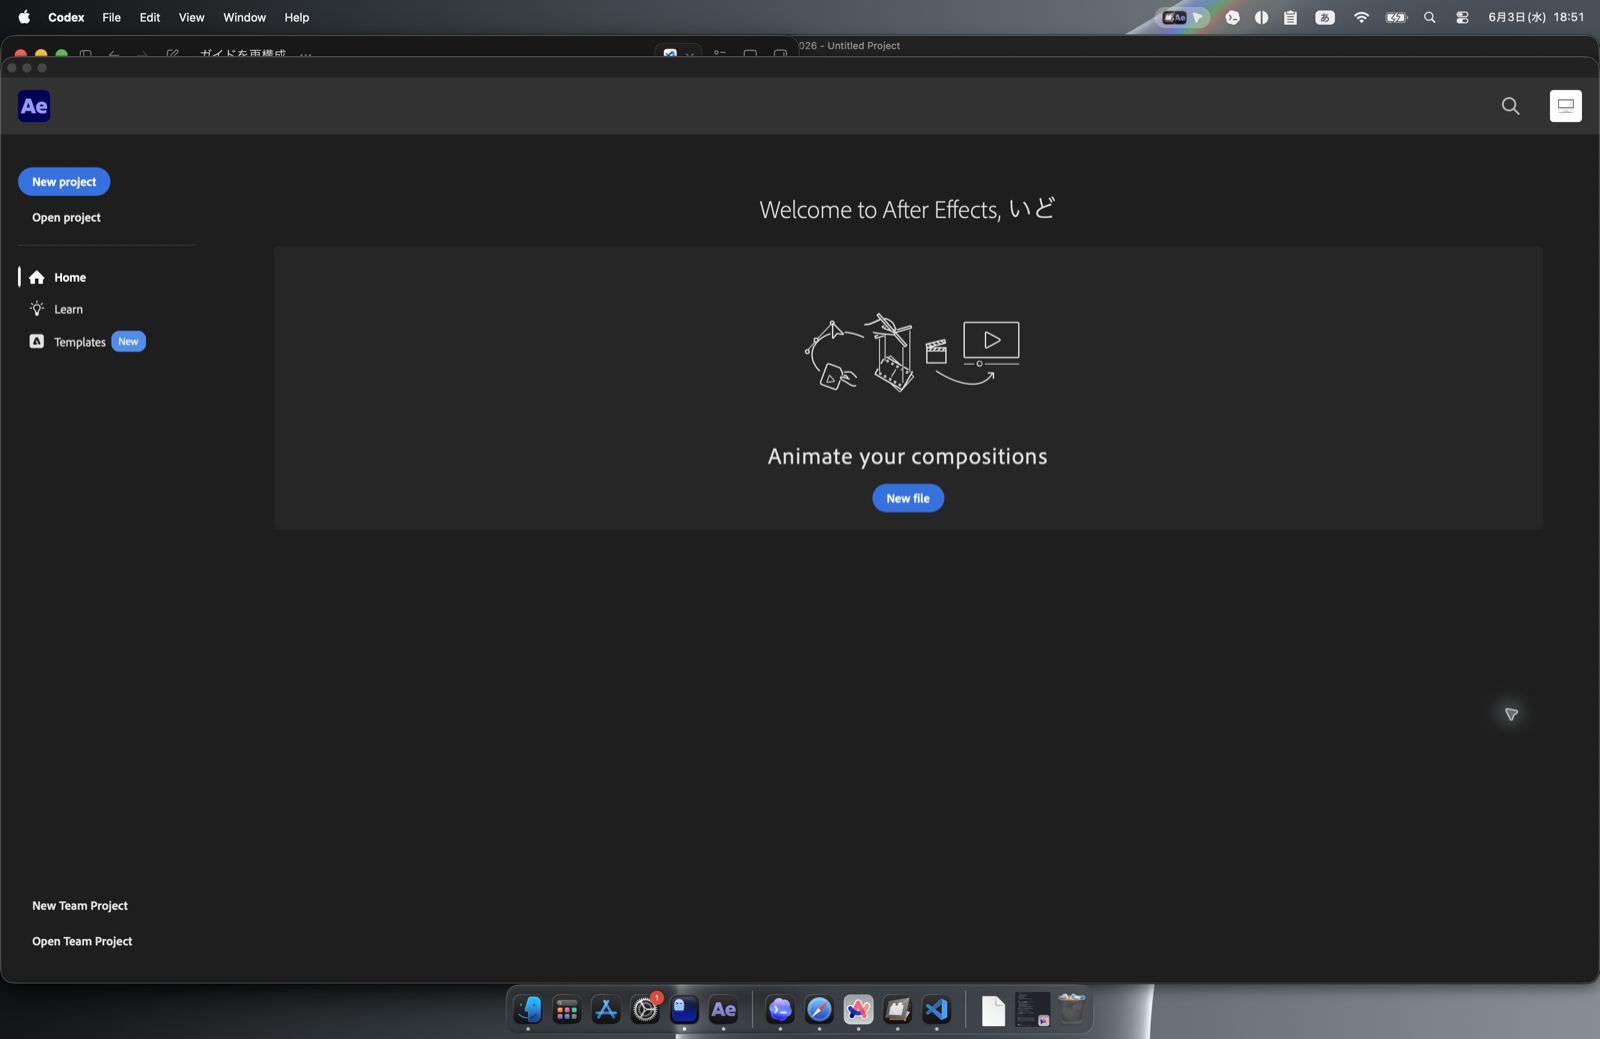
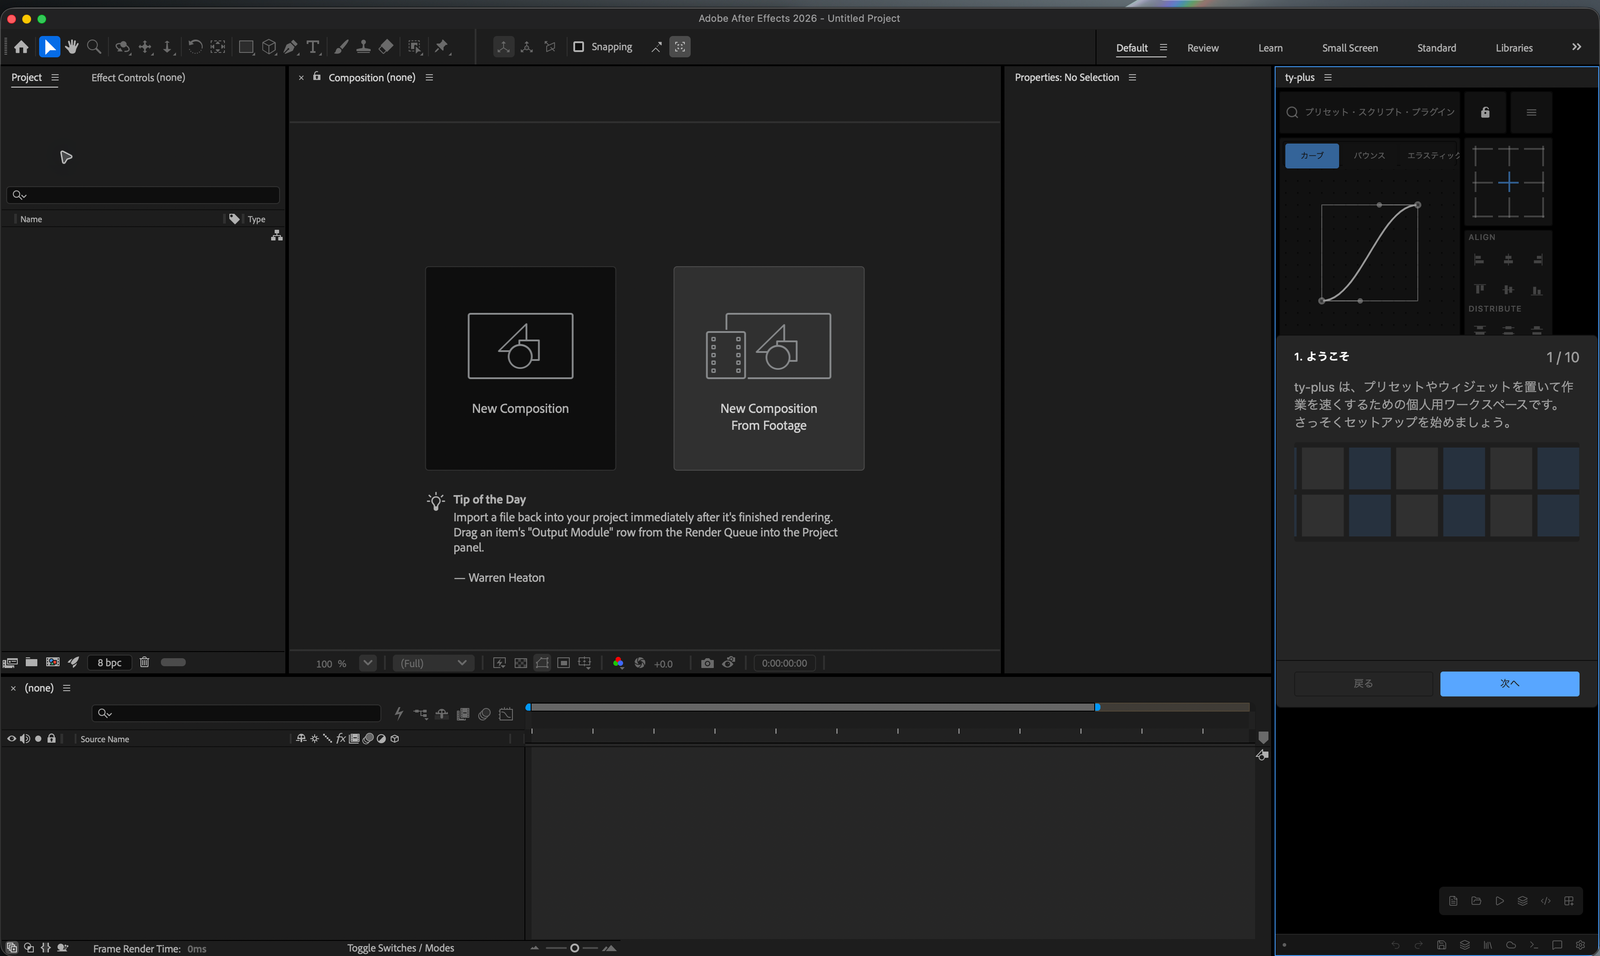
fix(web): hide closed nav popover and replace contaminated imagery (#282)
- .site-menu author display:flex overrode the UA rule hiding closed
  popovers, painting the menu over page content on every route.
  Add an explicit :not(:popover-open) display:none rule.
- SiteHeader measure(): an open popover lives in the top layer and never
  contributes to scrollWidth, so opening the menu flipped the layout to
  is-wide and removed the popover. Hide the popover for the measuring
  frame, then restore it.
- capture-screens.ts now fails the run when the collapsed menu is
  visible (computed display, geometry, hit test) or when the open menu
  fails to paint.
- Replace all product imagery with captures verified clean via OCR
  audit of docs/user-guide sources: previous assets contained Codex
  windows, terminal commands, /Users paths, browser/Notion chrome, and
  the empty AE welcome screen. Keep only hero (v0.10.1), the panel in a
  new project (main-02), preset tiles (v0.10.1-panel), the Add Widget
  dialog (widgets-01), and the Code Preset dialog (presets-10), cropped
  to remove macOS menu bar and Dock. Features without a verified
  capture (appearance) render as a text-only row instead of borrowing
  an unrelated screenshot.

Generated with [Devin](https://devin.ai)

diff --git a/apps/web/src/routes/features.tsx b/apps/web/src/routes/features.tsx
@@ -21,33 +21,36 @@ const FEATURES = [
 		index: "01",
 		title: "Workspace tiles & widgets",
 		body: "Arrange preset tiles, directory browsers, and utility widgets on a gridded workspace. Add, remove, and reorder widgets from the built-in picker, then save the layout locally — it is restored exactly as you left it.",
-		image: "/images/widget-added.png",
-		alt: "A widget added to the ty-plus workspace",
-		caption: "fig. 01 — a widget added to the workspace",
+		image: "/images/workspace.png",
+		alt: "The ty-plus panel docked inside a new After Effects project",
+		caption: "fig. 01 — the panel inside After Effects",
+		width: 1600,
+		height: 956,
 	},
 	{
 		index: "02",
 		title: "Preset library",
 		body: "Keep easing, text-style, footage, layer, animation, and code presets organized in groups. Apply them to the right After Effects target without leaving the panel or hunting through folders.",
-		image: "/images/easing-applied.png",
-		alt: "An easing preset applied to keyframes in a saved After Effects project",
-		caption: "fig. 02 — easing preset applied to keyframes",
+		image: "/images/preset-tiles.png",
+		alt: "Preset tiles in the ty-plus panel",
+		caption: "fig. 02 — preset tiles, ready to apply",
+		width: 640,
+		height: 1748,
 	},
 	{
 		index: "03",
-		title: "Customizable appearance",
-		body: "Tune colors, spacing, and panel styling from Settings. Appearance changes apply live and are stored on your machine — the panel looks the way you want it to.",
-		image: "/images/settings.png",
-		alt: "ty-plus settings dialog",
-		caption: "fig. 03 — settings dialog",
+		title: "Widgets on demand",
+		body: "Directory browsers, quick utilities, and tools you add from the built-in picker. Every widget is a real panel feature — it keeps working with the network unplugged.",
+		image: "/images/add-widget.png",
+		alt: "The Add Widget dialog in ty-plus listing available widget types",
+		caption: "fig. 03 — the Add Widget picker",
+		width: 1600,
+		height: 956,
 	},
 	{
 		index: "04",
-		title: "Widgets on demand",
-		body: "Directory browsers, quick utilities, and tools you add from the built-in picker. Every widget is a real panel feature — it keeps working with the network unplugged.",
-		image: "/images/directory-browser.png",
-		alt: "Directory Browser widget added to the ty-plus workspace",
-		caption: "fig. 04 — directory browser widget",
+		title: "Customizable appearance",
+		body: "Tune colors, spacing, and panel styling from Settings. Appearance changes apply live and are stored on your machine — the panel looks the way you want it to.",
 	},
 ] as const;
 
@@ -67,26 +70,31 @@ function FeaturesPage() {
 			<section className="page" aria-label="Feature details">
 				<div className="feature-rows">
 					{FEATURES.map((f) => (
-						<article className="feature-row" key={f.index}>
+						<article
+							className={`feature-row${"image" in f ? "" : " feature-row--plain"}`}
+							key={f.index}
+						>
 							<div>
 								<span className="feature-row-index">{f.index}</span>
 								<h3>{f.title}</h3>
 								<p>{f.body}</p>
 							</div>
-							<div className="feature-row-media">
-								<figure className="shot">
-									<span className="shot-frame">
-										<img
-											src={f.image}
-											alt={f.alt}
-											width={1600}
-											height={1039}
-											loading="lazy"
-										/>
-									</span>
-									<figcaption>{f.caption}</figcaption>
-								</figure>
-							</div>
+							{"image" in f ? (
+								<div className="feature-row-media">
+									<figure className="shot">
+										<span className="shot-frame">
+											<img
+												src={f.image}
+												alt={f.alt}
+												width={f.width}
+												height={f.height}
+												loading="lazy"
+											/>
+										</span>
+										<figcaption>{f.caption}</figcaption>
+									</figure>
+								</div>
+							) : null}
 						</article>
 					))}
 				</div>

diff --git a/apps/web/scripts/capture-screens.ts b/apps/web/scripts/capture-screens.ts
@@ -79,7 +79,66 @@ const meta: Record<string, unknown> = {
 	viewports: VIEWPORTS,
 	routes: ROUTES,
 	menuClosedAssertions: [] as string[],
+	menuHiddenViolations: [] as string[],
 };
+
+/**
+ * Normal state must render the collapsed nav menu fully hidden — not just
+ * `:popover-open`-closed. Author `display` rules can keep a closed popover
+ * painted, so we verify computed style, geometry and a hit test.
+ */
+async function checkMenuHidden(page: import("playwright").Page, label: string) {
+	const state = await page.evaluate(() => {
+		const menu = document.querySelector<HTMLElement>(".site-menu");
+		if (!menu) return { missing: true as const };
+		// Wide layout renders the menu inline without the popover attribute;
+		// the hidden-state contract only applies to the collapsed popover.
+		if (!menu.hasAttribute("popover")) {
+			return { missing: false as const, inline: true as const };
+		}
+		const cs = getComputedStyle(menu);
+		const r = menu.getBoundingClientRect();
+		const visible =
+			cs.display !== "none" &&
+			cs.visibility !== "hidden" &&
+			cs.opacity !== "0" &&
+			r.width > 0 &&
+			r.height > 0 &&
+			r.bottom > 0 &&
+			r.top < innerHeight &&
+			r.right > 0 &&
+			r.left < innerWidth;
+		const hit = visible
+			? document.elementFromPoint(
+					Math.min(Math.max(r.left + r.width / 2, 1), innerWidth - 1),
+					Math.min(Math.max(r.top + r.height / 2, 1), innerHeight - 1),
+				)
+			: null;
+		const hitIsMenu = hit !== null && (menu === hit || menu.contains(hit));
+		return {
+			missing: false as const,
+			popoverOpen: menu.matches(":popover-open"),
+			visible,
+			hitIsMenu,
+		};
+	});
+	// Wide (inline) layout is exempt from the hidden-state contract.
+	if ("inline" in state && state.inline) {
+		const line = `${label}: inline layout -> ok`;
+		(meta.menuClosedAssertions as string[]).push(line);
+		return true;
+	}
+	// A closed popover must be invisible; an open one must be visible.
+	const pass = state.missing
+		? false
+		: state.popoverOpen
+			? state.visible
+			: !state.visible;
+	const line = `${label}: ${JSON.stringify(state)} -> ${pass ? "ok" : "FAIL"}`;
+	(meta.menuClosedAssertions as string[]).push(line);
+	if (!pass) (meta.menuHiddenViolations as string[]).push(line);
+	return pass;
+}
 
 async function settle(page: import("playwright").Page) {
 	await page.evaluate(async () => {
@@ -129,13 +188,8 @@ for (const vp of VIEWPORTS) {
 		});
 		await settle(page);
 
-		// Normal state must start with the nav popover closed.
-		const menuOpen = await page.evaluate(() =>
-			document.querySelector(".site-menu")?.matches(":popover-open"),
-		);
-		(meta.menuClosedAssertions as string[]).push(
-			`${vp.name} ${route}: ${menuOpen ? "OPEN (unexpected)" : "closed"}`,
-		);
+		// Normal state: the collapsed nav menu must be fully hidden.
+		await checkMenuHidden(page, `${vp.name} ${route}`);
 
 		const file = join(outDir, `${tag}-${vp.name}-${name}.png`);
 		await page.screenshot({ path: file, fullPage: true });
@@ -184,6 +238,8 @@ for (const vp of VIEWPORTS) {
 					document.querySelector(".site-menu")?.matches(":popover-open"),
 				);
 				if (open) {
+					// Interaction state: the open menu must actually paint.
+					await checkMenuHidden(page, `${vp.name} ${route} menu-open`);
 					const menuFile = join(
 						outDir,
 						`${tag}-${vp.name}-${name}-menu-open.png`,
@@ -202,3 +258,11 @@ await browser.close();
 
 writeFileSync(join(outDir, "capture-meta.json"), JSON.stringify(meta, null, 2));
 console.log(`saved ${join(outDir, "capture-meta.json")}`);
+
+const violations = meta.menuHiddenViolations as string[];
+if (violations.length > 0) {
+	console.error(
+		`menu visibility check FAILED (${violations.length}):\n${violations.join("\n")}`,
+	);
+	process.exit(1);
+}

diff --git a/apps/web/src/routes/index.tsx b/apps/web/src/routes/index.tsx
@@ -31,51 +31,41 @@ const FEATURES = [
 		title: "A workspace built for how you work",
 		body: "Tiles, widgets, and preset groups live on a gridded panel inside After Effects. Arrange the layout once and it stays exactly where you left it — stored locally, restored on launch.",
 		image: "/images/workspace.png",
-		alt: "ty-plus workspace after onboarding inside After Effects",
-		caption: "fig. 01 — workspace layout, locally persisted",
+		alt: "The ty-plus panel docked inside a new After Effects project",
+		caption: "fig. 01 — the panel inside After Effects",
+		width: 1600,
+		height: 956,
 	},
 	{
 		index: "02",
 		title: "Presets without the hunt",
 		body: "Easing, text styles, footage, layer and animation presets — grouped, searchable, one click from the panel. No more digging through folders mid-comp.",
-		image: "/images/presets.png",
-		alt: "ty-plus preset group opened inside the panel",
-		caption: "fig. 02 — a preset group, opened",
+		image: "/images/preset-tiles.png",
+		alt: "Preset tiles in the ty-plus panel",
+		caption: "fig. 02 — preset tiles, ready to apply",
+		width: 640,
+		height: 1748,
 	},
 	{
 		index: "03",
 		title: "Widgets that earn their tile",
 		body: "Directory browsers, quick utilities, and tools you add from the built-in picker. Every widget is a real panel feature, not a web embed — it keeps working offline.",
-		image: "/images/widgets.png",
-		alt: "ty-plus Add Widget dialog listing available widgets",
+		image: "/images/add-widget.png",
+		alt: "The Add Widget dialog in ty-plus listing available widget types",
 		caption: "fig. 03 — the Add Widget picker",
+		width: 1600,
+		height: 956,
 	},
 ] as const;
 
 const SHOTS = [
 	{
-		className: "shot-wide",
-		src: "/images/ffx-applied.png",
-		alt: "An .ffx animation preset applied to a layer in After Effects",
-		caption: "preset applied to a layer — fig. 04",
-	},
-	{
-		className: "shot-tall",
-		src: "/images/directory-browser.png",
-		alt: "Directory Browser widget added to the ty-plus workspace",
-		caption: "directory browser widget — fig. 05",
-	},
-	{
-		className: "shot-wide",
-		src: "/images/appearance.png",
-		alt: "ty-plus panel with a custom background applied",
-		caption: "custom appearance — fig. 06",
-	},
-	{
-		className: "shot-tall",
-		src: "/images/panels-open.png",
-		alt: "Multiple ty-plus panels open inside After Effects",
-		caption: "panels in the workspace — fig. 07",
+		className: "shot-full",
+		src: "/images/preset-dialog.png",
+		alt: "The Code Preset creation dialog in ty-plus",
+		caption: "fig. 04 — creating a preset without leaving the panel",
+		width: 1600,
+		height: 956,
 	},
 ] as const;
 
@@ -148,8 +138,8 @@ function HomePage() {
 										<img
 											src={f.image}
 											alt={f.alt}
-											width={1600}
-											height={1039}
+											width={f.width}
+											height={f.height}
 											loading="lazy"
 										/>
 									</span>
@@ -174,8 +164,8 @@ function HomePage() {
 								<img
 									src={s.src}
 									alt={s.alt}
-									width={1600}
-									height={1039}
+									width={s.width}
+									height={s.height}
 									loading="lazy"
 								/>
 							</span>

diff --git a/apps/web/src/components/SiteHeader.tsx b/apps/web/src/components/SiteHeader.tsx
@@ -44,16 +44,25 @@ export function SiteHeader() {
 		const measure = () => {
 			cancelAnimationFrame(raf);
 			raf = requestAnimationFrame(() => {
+				// An open popover lives in the top layer, so it never
+				// contributes to the header's scrollWidth. Hide it for one
+				// frame so the inline row can be measured naturally, then
+				// restore the open state before paint.
+				const wasOpen = menu.matches(":popover-open");
+				if (wasOpen) menu.hidePopover();
+
 				// Render the row inline (button hidden, menu in flow) for one
 				// frame to measure the natural width, then decide.
 				header.classList.add("is-measuring");
 				const fits = inner.scrollWidth <= inner.clientWidth;
 				header.classList.remove("is-measuring");
 
+				if (wasOpen) menu.showPopover();
+
 				// Widening while the popover is open: remember to reopen it
 				// when the layout narrows again. Kept outside the state
 				// updater so the updater stays pure.
-				if (fits && menu.matches(":popover-open")) {
+				if (fits && wasOpen) {
 					reopenRef.current = true;
 				}
 				setIsWide(fits);

diff --git a/apps/web/src/styles/app.css b/apps/web/src/styles/app.css
@@ -429,6 +429,12 @@ figure.shot figcaption .shot-index {
 	box-shadow: 0 16px 48px -12px rgb(0 0 0 / 0.8);
 }
 
+/* A closed popover must stay hidden: the author `display` on .site-menu
+   would otherwise override the UA `[popover]:not(:popover-open)` rule. */
+.site-menu[popover]:not(:popover-open) {
+	display: none;
+}
+
 .site-menu-button {
 	anchor-name: --menu-button;
 }
@@ -735,6 +741,16 @@ figure.shot figcaption .shot-index {
 	margin: 0;
 }
 
+/* Rows without verified product imagery stay text-only rather than
+   borrowing an unrelated screenshot. */
+.feature-row--plain {
+	grid-template-columns: minmax(0, 8fr);
+}
+
+.feature-row--plain > div {
+	max-width: 44rem;
+}
+
 @media (max-width: 56rem) {
 	.feature-row {
 		grid-template-columns: 1fr;
@@ -763,6 +779,10 @@ figure.shot figcaption .shot-index {
 
 .shot-grid .shot-pair {
 	grid-column: span 6;
+}
+
+.shot-grid .shot-full {
+	grid-column: span 12;
 }
 
 @media (max-width: 56rem) {
